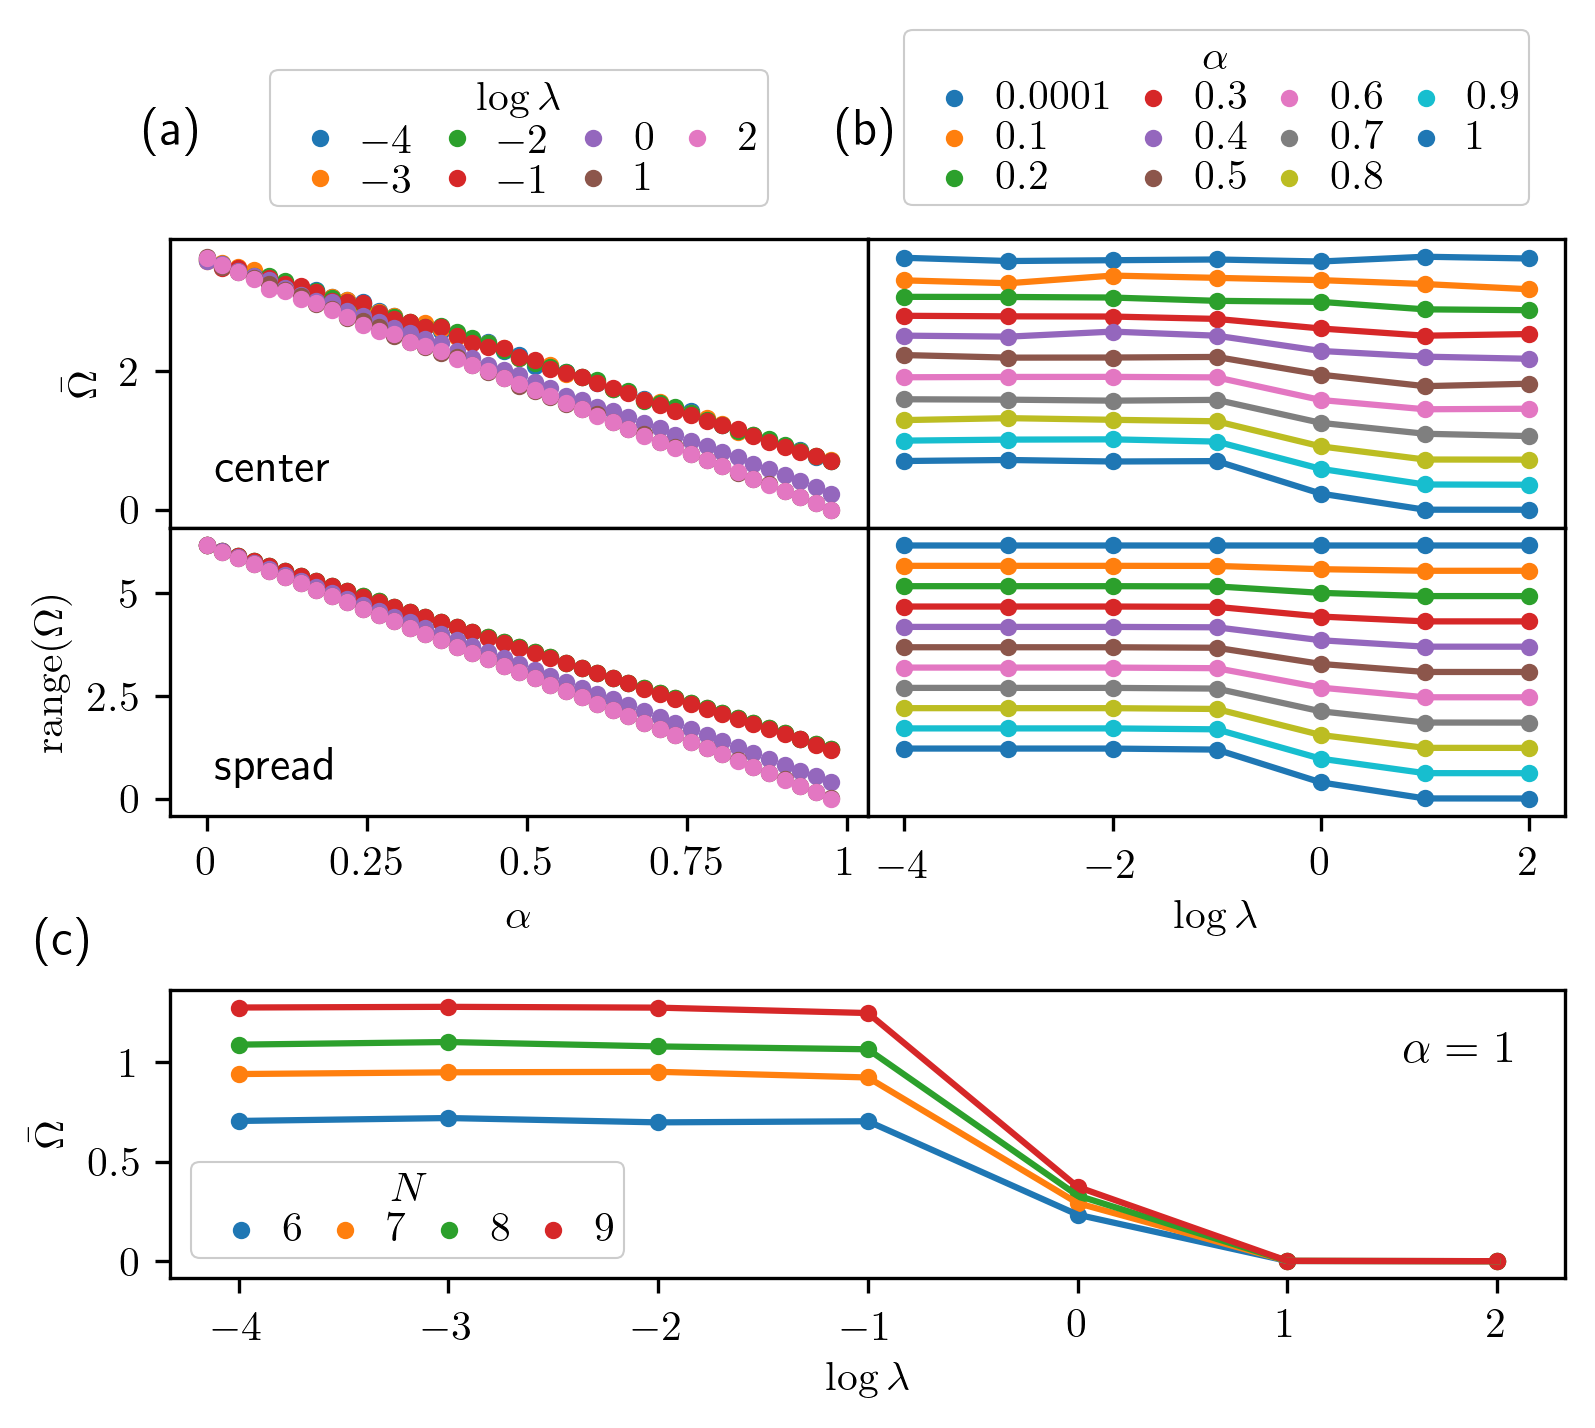
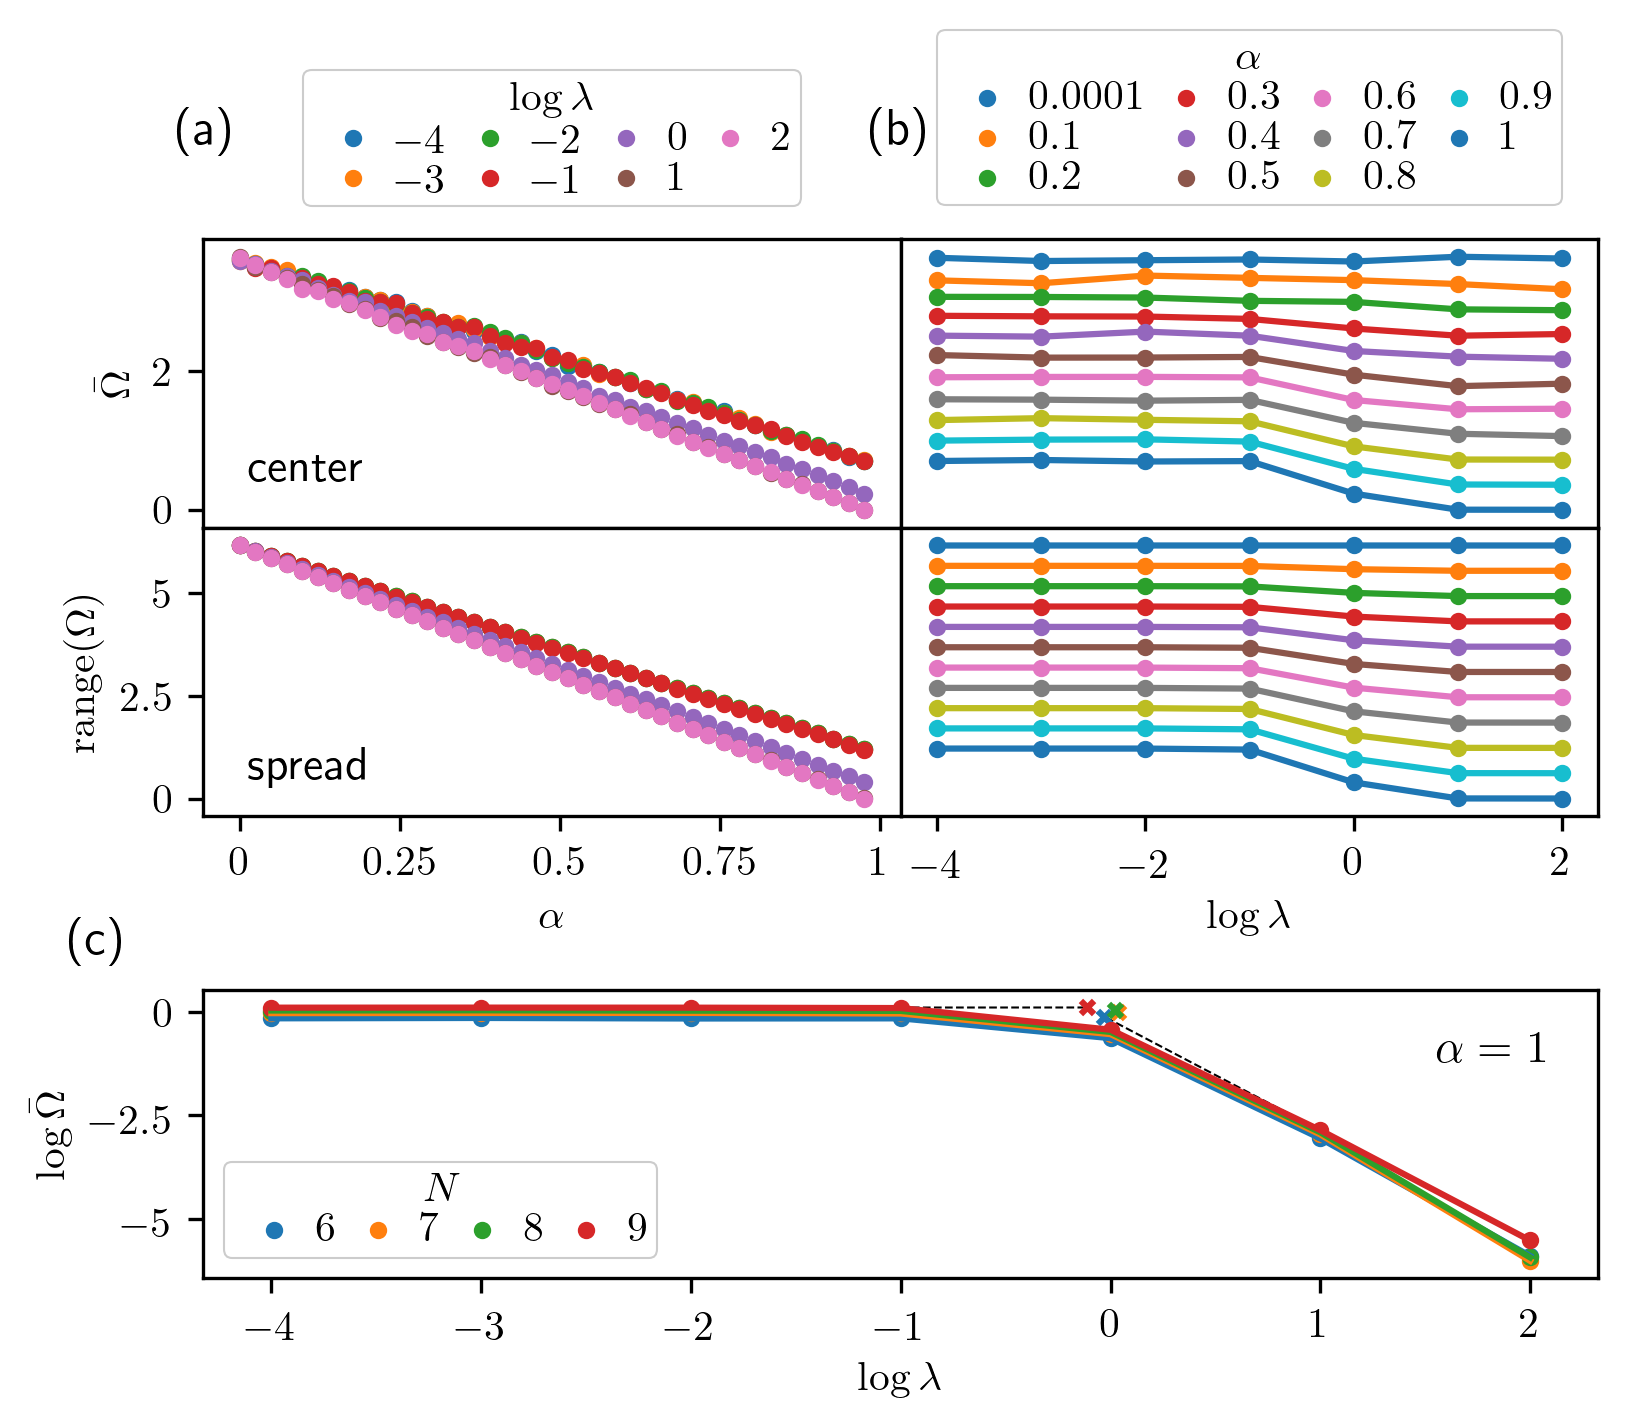
second draft of response

diff --git a/manuscript_plots_2/lty_newer.py b/manuscript_plots_2/lty_newer.py
@@ -396,8 +396,8 @@ def plot_2d_lty_omega_mean_lambda_finite(axis, omega_min_val, omega_max_val):
         for lbl_val in lbl_values:
             omega_set = [i for i, e in enumerate(lbl) if e == lbl_val]
             mean_val = np.average(omega[omega_set[0]:omega_set[-1]+1])
-            # log_mean_val = np.log10(mean_val)
-            log_mean_val = mean_val
+            log_mean_val = np.log10(mean_val)
+            # log_mean_val = mean_val
             log_mean_vals += [log_mean_val]
 
         log_lbl_values = [np.log10(i) for i in lbl_values]
@@ -407,30 +407,32 @@ def plot_2d_lty_omega_mean_lambda_finite(axis, omega_min_val, omega_max_val):
         axis.plot(log_lbl_values, log_mean_vals, c=f"C{numb_idx}")
 
         # plot the transition point
-        # x1 = log_lbl_values[0]
-        # y1 = log_mean_vals[0]
-        # x2 = log_lbl_values[1]
-        # y2 = log_mean_vals[1]
-        # m = (y2-y1)/(x2-x1)
-        # c = y1-m*x1
-        # v1 = log_lbl_values[-2]
-        # w1 = log_mean_vals[-2]
-        # v2 = log_lbl_values[-1]
-        # w2 = log_mean_vals[-1]
-        # alpha = (w2-w1)/(v2-v1)
-        # beta = w1-alpha*v1
-        # xint = (beta-c)/(m-alpha)
-        # yint = m*xint + c
-        # axis.scatter(xint, yint, marker='x', s=10, c=f"C{numb_idx}")
-        # if n_val == 8:
-        #     xvalues1 = np.linspace(-4, xint)
-        #     xvalues2 = np.linspace(xint, 2)
-        #     axis.plot(xvalues1, m * xvalues1 + c, '--', c='k', zorder=0, lw=0.5)
-        #     axis.plot(xvalues2, alpha * xvalues2 + beta, '--', c='k', zorder=0, lw=0.5)
+        x1 = log_lbl_values[0]
+        y1 = log_mean_vals[0]
+        x2 = log_lbl_values[1]
+        y2 = log_mean_vals[1]
+        m = (y2-y1)/(x2-x1)
+        c = y1-m*x1
+        v1 = log_lbl_values[-2]
+        w1 = log_mean_vals[-2]
+        v2 = log_lbl_values[-1]
+        w2 = log_mean_vals[-1]
+        alpha = (w2-w1)/(v2-v1)
+        beta = w1-alpha*v1
+        xint = (beta-c)/(m-alpha)
+        yint = m*xint + c
+        axis.scatter(xint, yint, marker='x', s=10, c=f"C{numb_idx}")
+        if n_val == 9:
+            xvalues1 = np.linspace(-4, xint)
+            xvalues2 = np.linspace(xint, 2)
+            axis.plot(xvalues1, m * xvalues1 + c, '--', c='k', zorder=0, lw=0.5)
+            print(m)
+            axis.plot(xvalues2, alpha * xvalues2 + beta, '--', c='k', zorder=0, lw=0.5)
+            print(alpha)
 
     axis.set_xlabel('$\\log\\lambda$')
     axis.xaxis.set_major_formatter(FormatStrFormatter('$%g$'))
-    axis.set_ylabel('$\\bar{\\Omega}$')
+    axis.set_ylabel('$\\log\\bar{\\Omega}$')
     axis.yaxis.set_major_formatter(FormatStrFormatter('$%g$'))
 
     leg = axis.legend(loc='lower left', handletextpad=0, borderpad=0.2, framealpha=1,

diff --git a/manuscript_plots_2/pp.py b/manuscript_plots_2/pp.py
@@ -1,0 +1,67 @@
+from mpmath import sqrt, pi, gamma, hyperu, fac, fac2
+import matplotlib.pyplot as plt
+import numpy as np
+import csv
+
+plt.rc('text', usetex=True)
+plt.rc('text.latex', preamble=r'\usepackage{amsmath}')
+
+
+def coulomb(m_val):
+
+    V = (sqrt(pi)/2) * fac2(2*m_val-1)/(2**m_val * fac(m_val))
+
+    return V
+
+
+def yukawa(m_val, lamb_val):
+
+    V = (lamb_val/(2*sqrt(pi))) * gamma(m_val + 1/2) * hyperu(m_val+1, 3/2, lamb_val*lamb_val)
+
+    return V
+
+
+# define a list of easily-visible markers
+markers = [(3, 0, 0), (4, 0, 0), (5, 0, 0), (6, 0, 0), (4, 1, 0), (5, 1, 0), (6, 1, 0),
+           (3, 2, 0), (4, 2, 0), (5, 2, 0), (6, 2, 0), 'X', 'x', 'd', 'D', 'P',
+           '$a$', '$b$', '$c$', '$d$', '$e$', '$f$', '$g$', '$h$', '$i$', '$j$', '$k$', '$l$', '$m$', '$n$', '$o$',
+           '$p$', '$q$', '$r$', '$s$', '$t$', '$u$', '$v$', '$w$', '$x$', '$y$', '$z$']
+
+
+if __name__ == "__main__":
+
+    fig = plt.figure(figsize=(6, 2.5))
+    ax = plt.subplot(111)
+
+    pp = np.zeros((100, 8))
+
+    for m in range(100):
+        pp[m, 0] = coulomb(m)
+        pp[m, 1] = yukawa(m, 0.0001)
+        pp[m, 2] = yukawa(m, 0.001)
+        pp[m, 3] = yukawa(m, 0.01)
+        pp[m, 4] = yukawa(m, 0.1)
+        pp[m, 5] = yukawa(m, 1)
+        pp[m, 6] = yukawa(m, 10)
+        pp[m, 7] = yukawa(m, 100)
+
+    reduced_marker_size = 3
+
+    mvals = range(100)
+    ax.plot(mvals, pp[:, 0], 'o-', label='Coulomb', zorder=8, fillstyle='none')
+    ax.plot(mvals, pp[:, 1], marker=markers[1], label='Yukawa ($\lambda=10^{-4}$)', zorder=7, markersize=reduced_marker_size)
+    ax.plot(mvals, pp[:, 2], marker=markers[2], label='Yukawa ($\lambda=10^{-3}$)', zorder=6, markersize=reduced_marker_size)
+    ax.plot(mvals, pp[:, 3], marker=markers[3], label='Yukawa ($\lambda=10^{-2}$)', zorder=5, markersize=reduced_marker_size)
+    ax.plot(mvals, pp[:, 4], marker=markers[4], label='Yukawa ($\lambda=10^{-1}$)', zorder=4, markersize=reduced_marker_size)
+    ax.plot(mvals, pp[:, 5], marker=markers[5], label='Yukawa ($\lambda=1$)', zorder=3, markersize=reduced_marker_size)
+    ax.plot(mvals, pp[:, 6], marker=markers[6], label='Yukawa ($\lambda=10$)', zorder=2, markersize=reduced_marker_size)
+    ax.plot(mvals, pp[:, 7], marker=markers[7], label='Yukawa ($\lambda=10^2$)', zorder=1, markersize=reduced_marker_size)
+    ax.set_xlabel('$\\beta$', fontsize=11)
+    ax.set_ylabel('$V^{(0)}_{\\beta}$', fontsize=11)
+
+    ax.legend(loc='upper right', handletextpad=0, borderpad=0.4, framealpha=1,
+              edgecolor='w', markerscale=1,
+              fontsize=10, ncol=1, labelspacing=0, columnspacing=0)
+
+    plt.savefig("pp.png", bbox_inches='tight', dpi=300)
+    plt.show()
